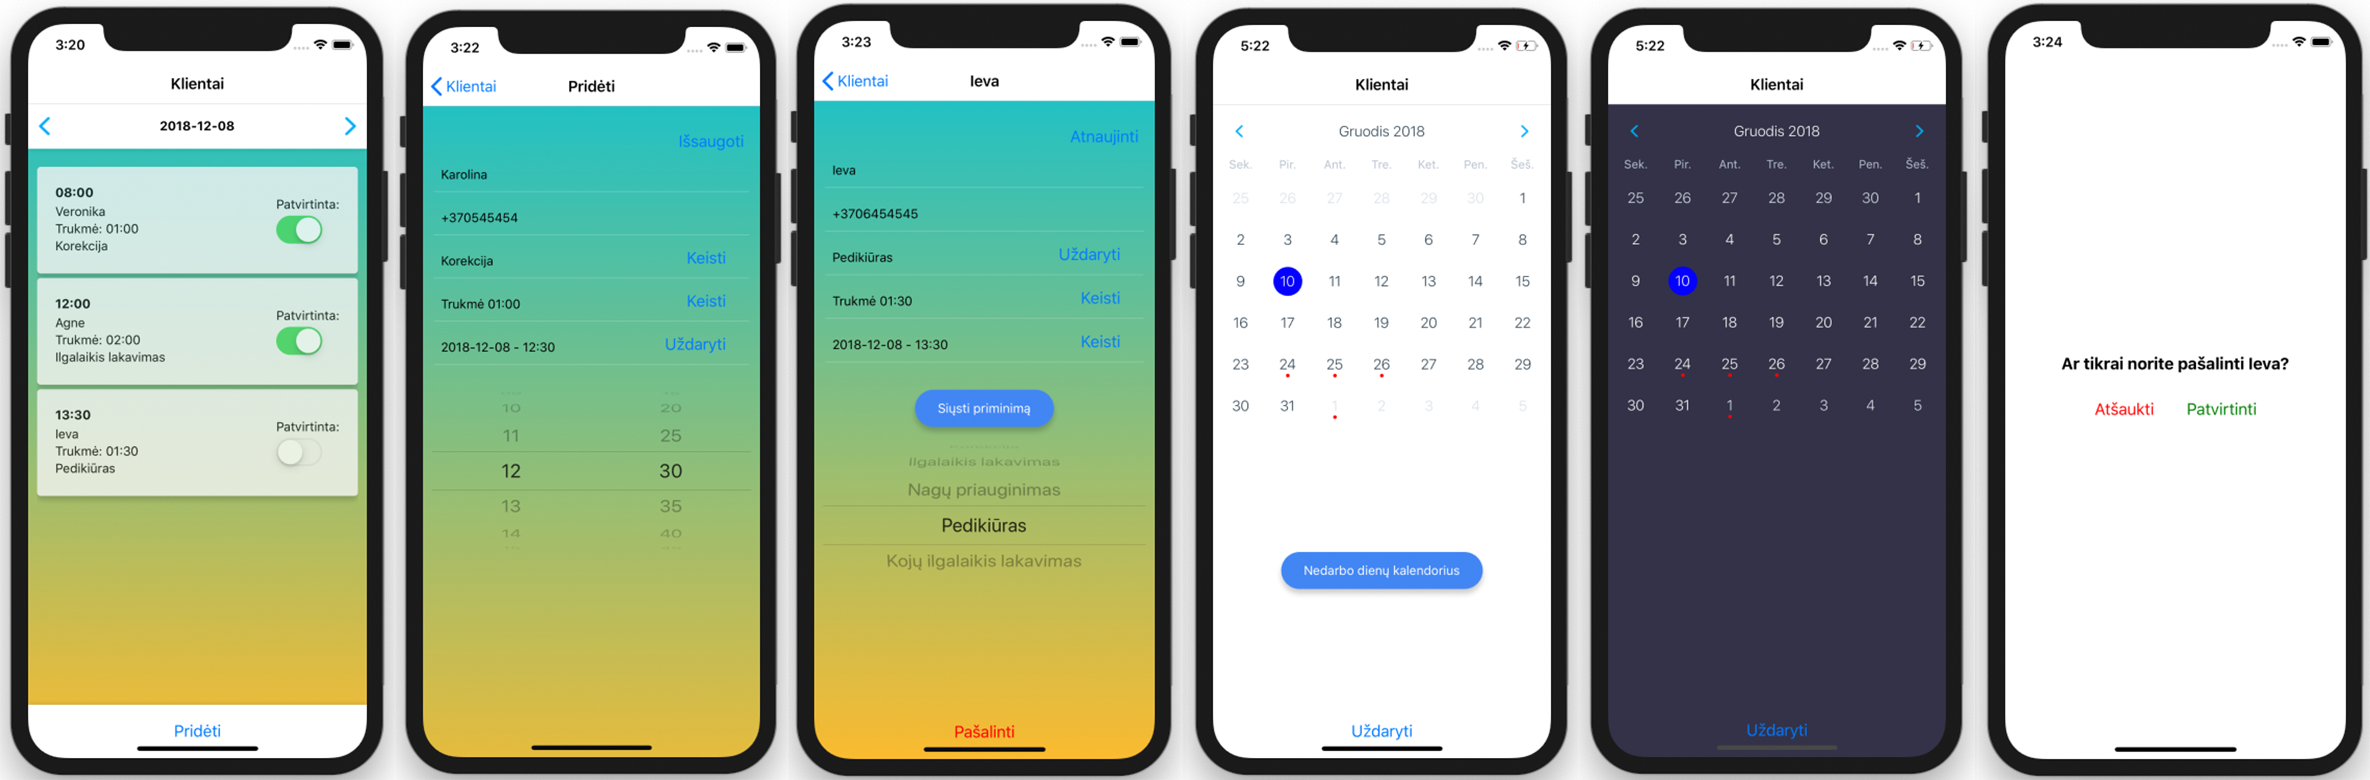
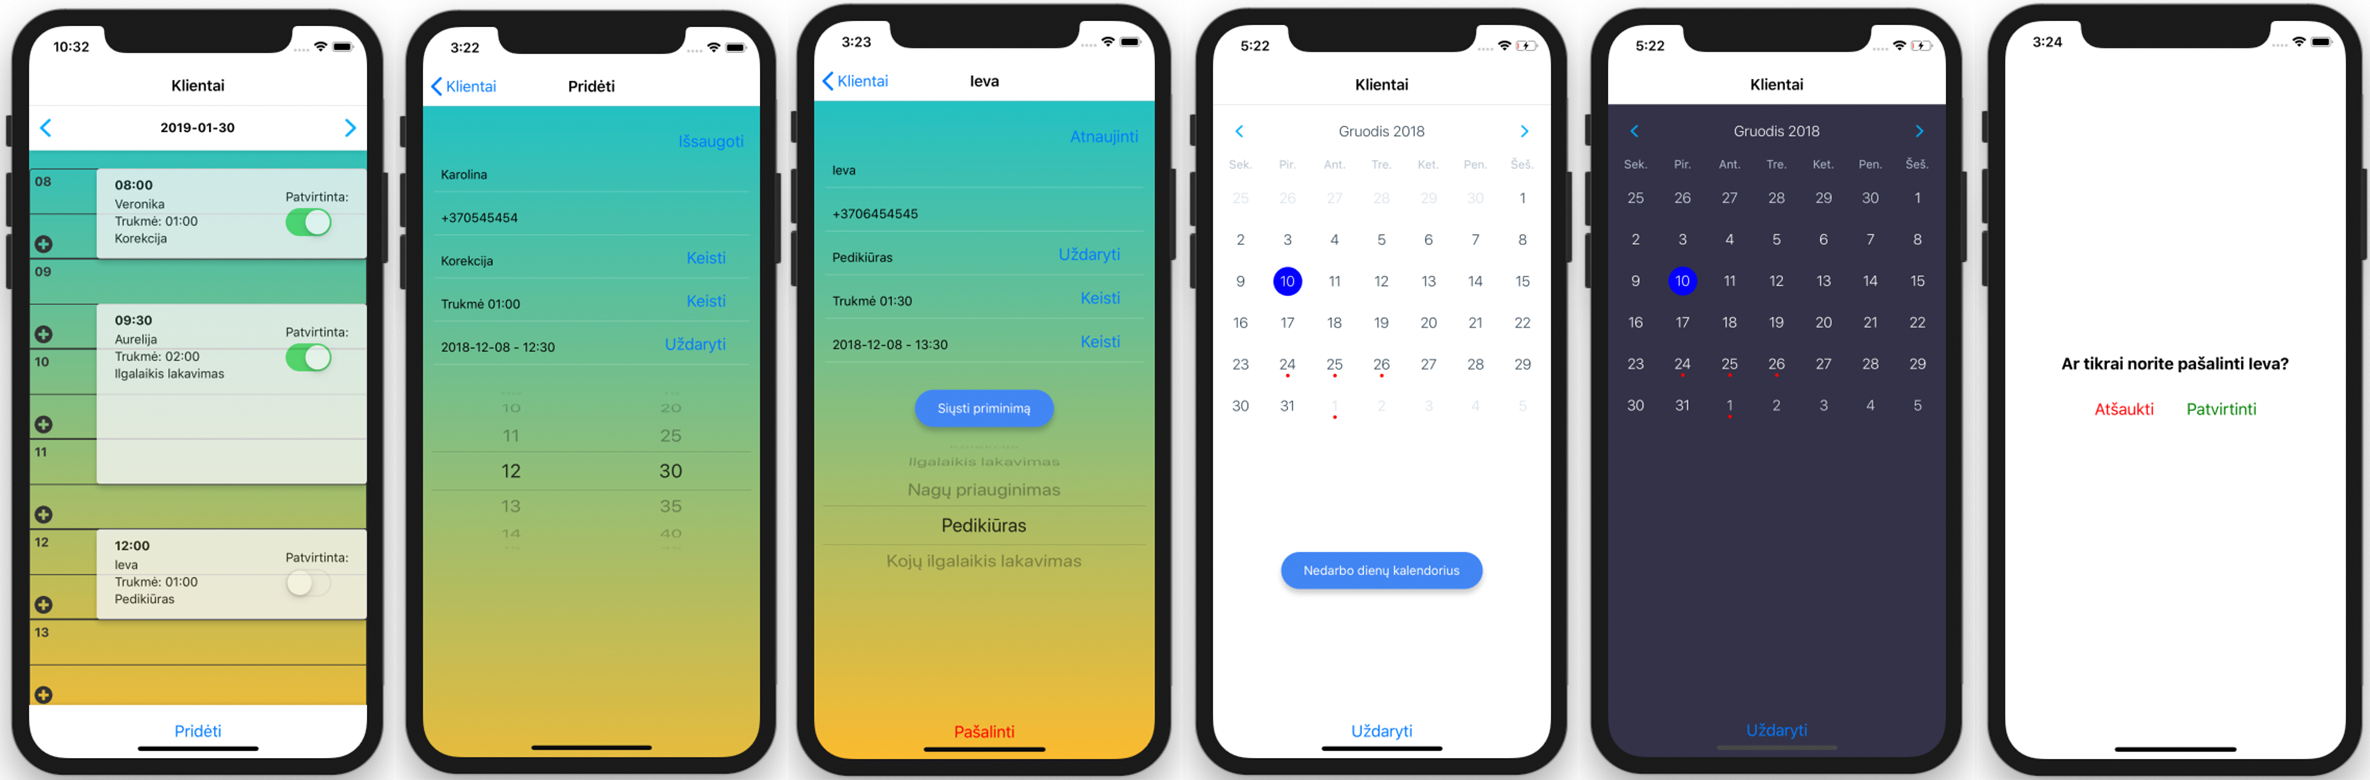
updated the display of client cards and hours

diff --git a/screens/intro/Intro.js b/screens/intro/Intro.js
@@ -3,7 +3,7 @@ import {
   View,
   Text,
   StyleSheet,
-  FlatList,
+  ScrollView,
   TouchableOpacity,
   TouchableHighlight,
   Button,
@@ -12,11 +12,11 @@ import {
 } from "react-native";
 import { LinearGradient } from "expo";
 import { AsyncStorage } from "react-native";
-import { prevArrow, nextArrow } from "../../assets";
+import { prevArrow, nextArrow, plusIcon } from "../../assets";
 import { Calendar, LocaleConfig } from "react-native-calendars";
 import { Detail } from "../detail";
 import { Add } from "../add";
-import { storageKey, markedDatesKey } from "../common";
+import { storageKey, markedDatesKey, workingHours } from "../common";
 
 LocaleConfig.locales["lt"] = {
   monthNames: [
@@ -142,49 +142,86 @@ export default class Intro extends Component {
     } catch (e) {}
   };
 
-  onAdd = () => {
+  onAdd = props => {
     this.props.navigator.push({
       component: Add,
       title: "Pridėti",
-      passProps: { date: this.state.date }
+      passProps: { date: this.state.date, ...props }
+    });
+  };
+
+  renderWorkingHours = () => {
+    return workingHours.map((hour, index) => {
+      const isFirst = index === 0;
+      const isLast = index === workingHours.length - 1;
+
+      return (
+        <View
+          key={hour}
+          style={{
+            borderTopLeftRadius: isFirst ? 4 : 0,
+            borderTopRightRadius: isFirst ? 4 : 0,
+            borderBottomLeftRadius: isLast ? 4 : 0,
+            borderBottomRightRadius: isLast ? 4 : 0,
+            ...styles.hourContainer
+          }}
+        >
+          <Text style={styles.hourText}>{hour}</Text>
+          <View style={styles.hourMidLine} />
+          <TouchableOpacity
+            style={styles.hourButton}
+            onPress={this.onAdd.bind(this, { hours: hour })}
+          >
+            <Image style={styles.hourButtonIcon} source={plusIcon} />
+          </TouchableOpacity>
+        </View>
+      );
     });
   };
 
   renderClients = () => {
     const { clients } = this.state;
 
-    return (
-      <FlatList
-        data={clients}
-        renderItem={({ item, index }) => {
-          const { time, name, duration, service, confirmed } = item;
-          const marginTop = index === 0 ? 20 : 0;
-          const marginBottom = index === clients.length - 1 ? 40 : 5;
+    return clients.map(item => {
+      const { time, name, duration, service, confirmed } = item;
+      const [hours, minutes] = time.split(":").map(t => parseInt(t, 10));
+      const firstWorkingHour = parseInt(workingHours[0].split(":"), 10);
+      const marginTop =
+        (hours - firstWorkingHour) * 100 +
+        (minutes > 0 ? (minutes * 100) / 60 : 0);
+      const height = parseFloat(duration.replace(":", ".")) * 100;
 
-          return (
-            <TouchableOpacity onPress={this.onClientPress.bind(this, item)}>
-              <View style={{ ...styles.listItem, marginTop, marginBottom }}>
-                <View>
-                  <Text style={{ fontWeight: "bold", marginBottom: 4 }}>
-                    {time}
-                  </Text>
-                  <Text style={styles.textMargin}>{name}</Text>
-                  <Text style={styles.textMargin}>Trukmė: {duration}</Text>
-                  <Text style={styles.textMargin}>{service}</Text>
-                </View>
-                <View>
-                  <Text style={{ marginBottom: 4 }}>Patvirtinta:</Text>
-                  <Switch
-                    value={confirmed}
-                    onValueChange={this.onConfirm.bind(this, time)}
-                  />
-                </View>
+      return (
+        <TouchableOpacity
+          key={time}
+          onPress={this.onClientPress.bind(this, item)}
+        >
+          <View
+            style={{
+              ...styles.listItem,
+              height,
+              marginTop
+            }}
+          >
+            <View style={styles.listItemContainer}>
+              <View>
+                <Text style={styles.listItemTime}>{time}</Text>
+                <Text style={styles.textMargin}>{name}</Text>
+                <Text style={styles.textMargin}>Trukmė: {duration}</Text>
+                <Text style={styles.textMargin}>{service}</Text>
               </View>
-            </TouchableOpacity>
-          );
-        }}
-      />
-    );
+              <View>
+                <Text style={{ marginBottom: 4 }}>Patvirtinta:</Text>
+                <Switch
+                  value={confirmed}
+                  onValueChange={this.onConfirm.bind(this, time)}
+                />
+              </View>
+            </View>
+          </View>
+        </TouchableOpacity>
+      );
+    });
   };
 
   updateDate = timestamp => {
@@ -297,15 +334,12 @@ export default class Intro extends Component {
               </TouchableOpacity>
             </View>
           </View>
-          <View
-            style={{
-              height: "85%",
-              paddingLeft: 10,
-              paddingRight: 10
-            }}
-          >
-            {this.renderClients()}
-          </View>
+          <ScrollView style={styles.itemContainer}>
+            <View style={{ height: workingHours.length * 100 + 40 }}>
+              {this.renderWorkingHours()}
+              <View style={styles.clientContainer}>{this.renderClients()}</View>
+            </View>
+          </ScrollView>
           <View style={styles.bottom}>
             <Button title="Pridėti" onPress={this.onAdd} />
           </View>
@@ -393,16 +427,26 @@ const styles = StyleSheet.create({
     height: 20
   },
   listItem: {
-    padding: 20,
-    flexDirection: "row",
-    justifyContent: "space-between",
-    alignItems: "center",
+    position: "absolute",
+    width: "100%",
+    paddingTop: 10,
+    paddingLeft: 20,
+    paddingRight: 20,
     backgroundColor: "#f4f4f4",
     borderRadius: 4,
     opacity: 0.8,
     shadowColor: "#000",
     shadowOffset: { width: 0, height: 5 },
     shadowOpacity: 0.2
+  },
+  listItemContainer: {
+    flexDirection: "row",
+    alignItems: "center",
+    justifyContent: "space-between"
+  },
+  listItemTime: {
+    fontWeight: "bold",
+    marginBottom: 4
   },
   textMargin: {
     marginBottom: 2
@@ -441,5 +485,45 @@ const styles = StyleSheet.create({
     shadowColor: "#000",
     shadowOffset: { width: 0, height: 0 },
     shadowOpacity: 0.2
+  },
+  hourContainer: {
+    borderWidth: 1,
+    borderColor: "#333",
+    height: 100
+  },
+  hourText: {
+    fontWeight: "bold",
+    color: "#333",
+    padding: 5
+  },
+  hourMidLine: {
+    position: "absolute",
+    top: "50%",
+    left: 0,
+    width: "100%",
+    height: 1,
+    backgroundColor: "#333"
+  },
+  hourButton: {
+    position: "absolute",
+    left: 5,
+    bottom: 5,
+    width: 20,
+    height: 20
+  },
+  hourButtonIcon: {
+    width: "100%",
+    height: "100%"
+  },
+  itemContainer: {
+    flexGrow: 0,
+    height: "85%",
+    paddingTop: 20,
+    paddingBottom: 200
+  },
+  clientContainer: {
+    position: "absolute",
+    left: "20%",
+    width: "80%"
   }
 });

diff --git a/screens/add/Add.js b/screens/add/Add.js
@@ -3,7 +3,7 @@ import { View, StyleSheet, TextInput, PickerIOS, Button } from "react-native";
 import { LinearGradient } from "expo";
 import { AsyncStorage } from "react-native";
 import { Intro } from "../intro";
-import { storageKey } from "../common";
+import { storageKey, workingHours } from "../common";
 
 export default class Add extends Component {
   state = {
@@ -12,7 +12,7 @@ export default class Add extends Component {
     service: "Korekcija",
     date: this.props.date,
     duration: "01:00",
-    hours: "08",
+    hours: this.props.hours || "08",
     minutes: "00",
     serviceFocused: false,
     durationFocused: false,
@@ -84,23 +84,7 @@ export default class Add extends Component {
   };
 
   renderHours = () => {
-    return this.renderPickerItems([
-      "08",
-      "09",
-      "10",
-      "11",
-      "12",
-      "13",
-      "14",
-      "15",
-      "16",
-      "17",
-      "18",
-      "19",
-      "20",
-      "21",
-      "22"
-    ]);
+    return this.renderPickerItems(workingHours);
   };
 
   renderMinutes = () => {

diff --git a/screens/common/constants.js b/screens/common/constants.js
@@ -1,2 +1,19 @@
 export const storageKey = "workbook";
 export const markedDatesKey = "markedDates";
+export const workingHours = [
+  "08",
+  "09",
+  "10",
+  "11",
+  "12",
+  "13",
+  "14",
+  "15",
+  "16",
+  "17",
+  "18",
+  "19",
+  "20",
+  "21",
+  "22"
+];

diff --git a/screens/detail/Detail.js b/screens/detail/Detail.js
@@ -221,6 +221,7 @@ export default class Detail extends Component {
   sendReminder = () => {
     const { phone, date } = this.state;
     const time = this.getTime();
+
     Communications.text(
       phone,
       `${date.toLocaleDateString(

diff --git a/assets/index.js b/assets/index.js
@@ -1,4 +1,5 @@
 import prevArrow from "./prev-arrow.png";
 import nextArrow from "./next-arrow.png";
+import plusIcon from "./plus-icon.png";
 
-export { prevArrow, nextArrow };
+export { prevArrow, nextArrow, plusIcon };
